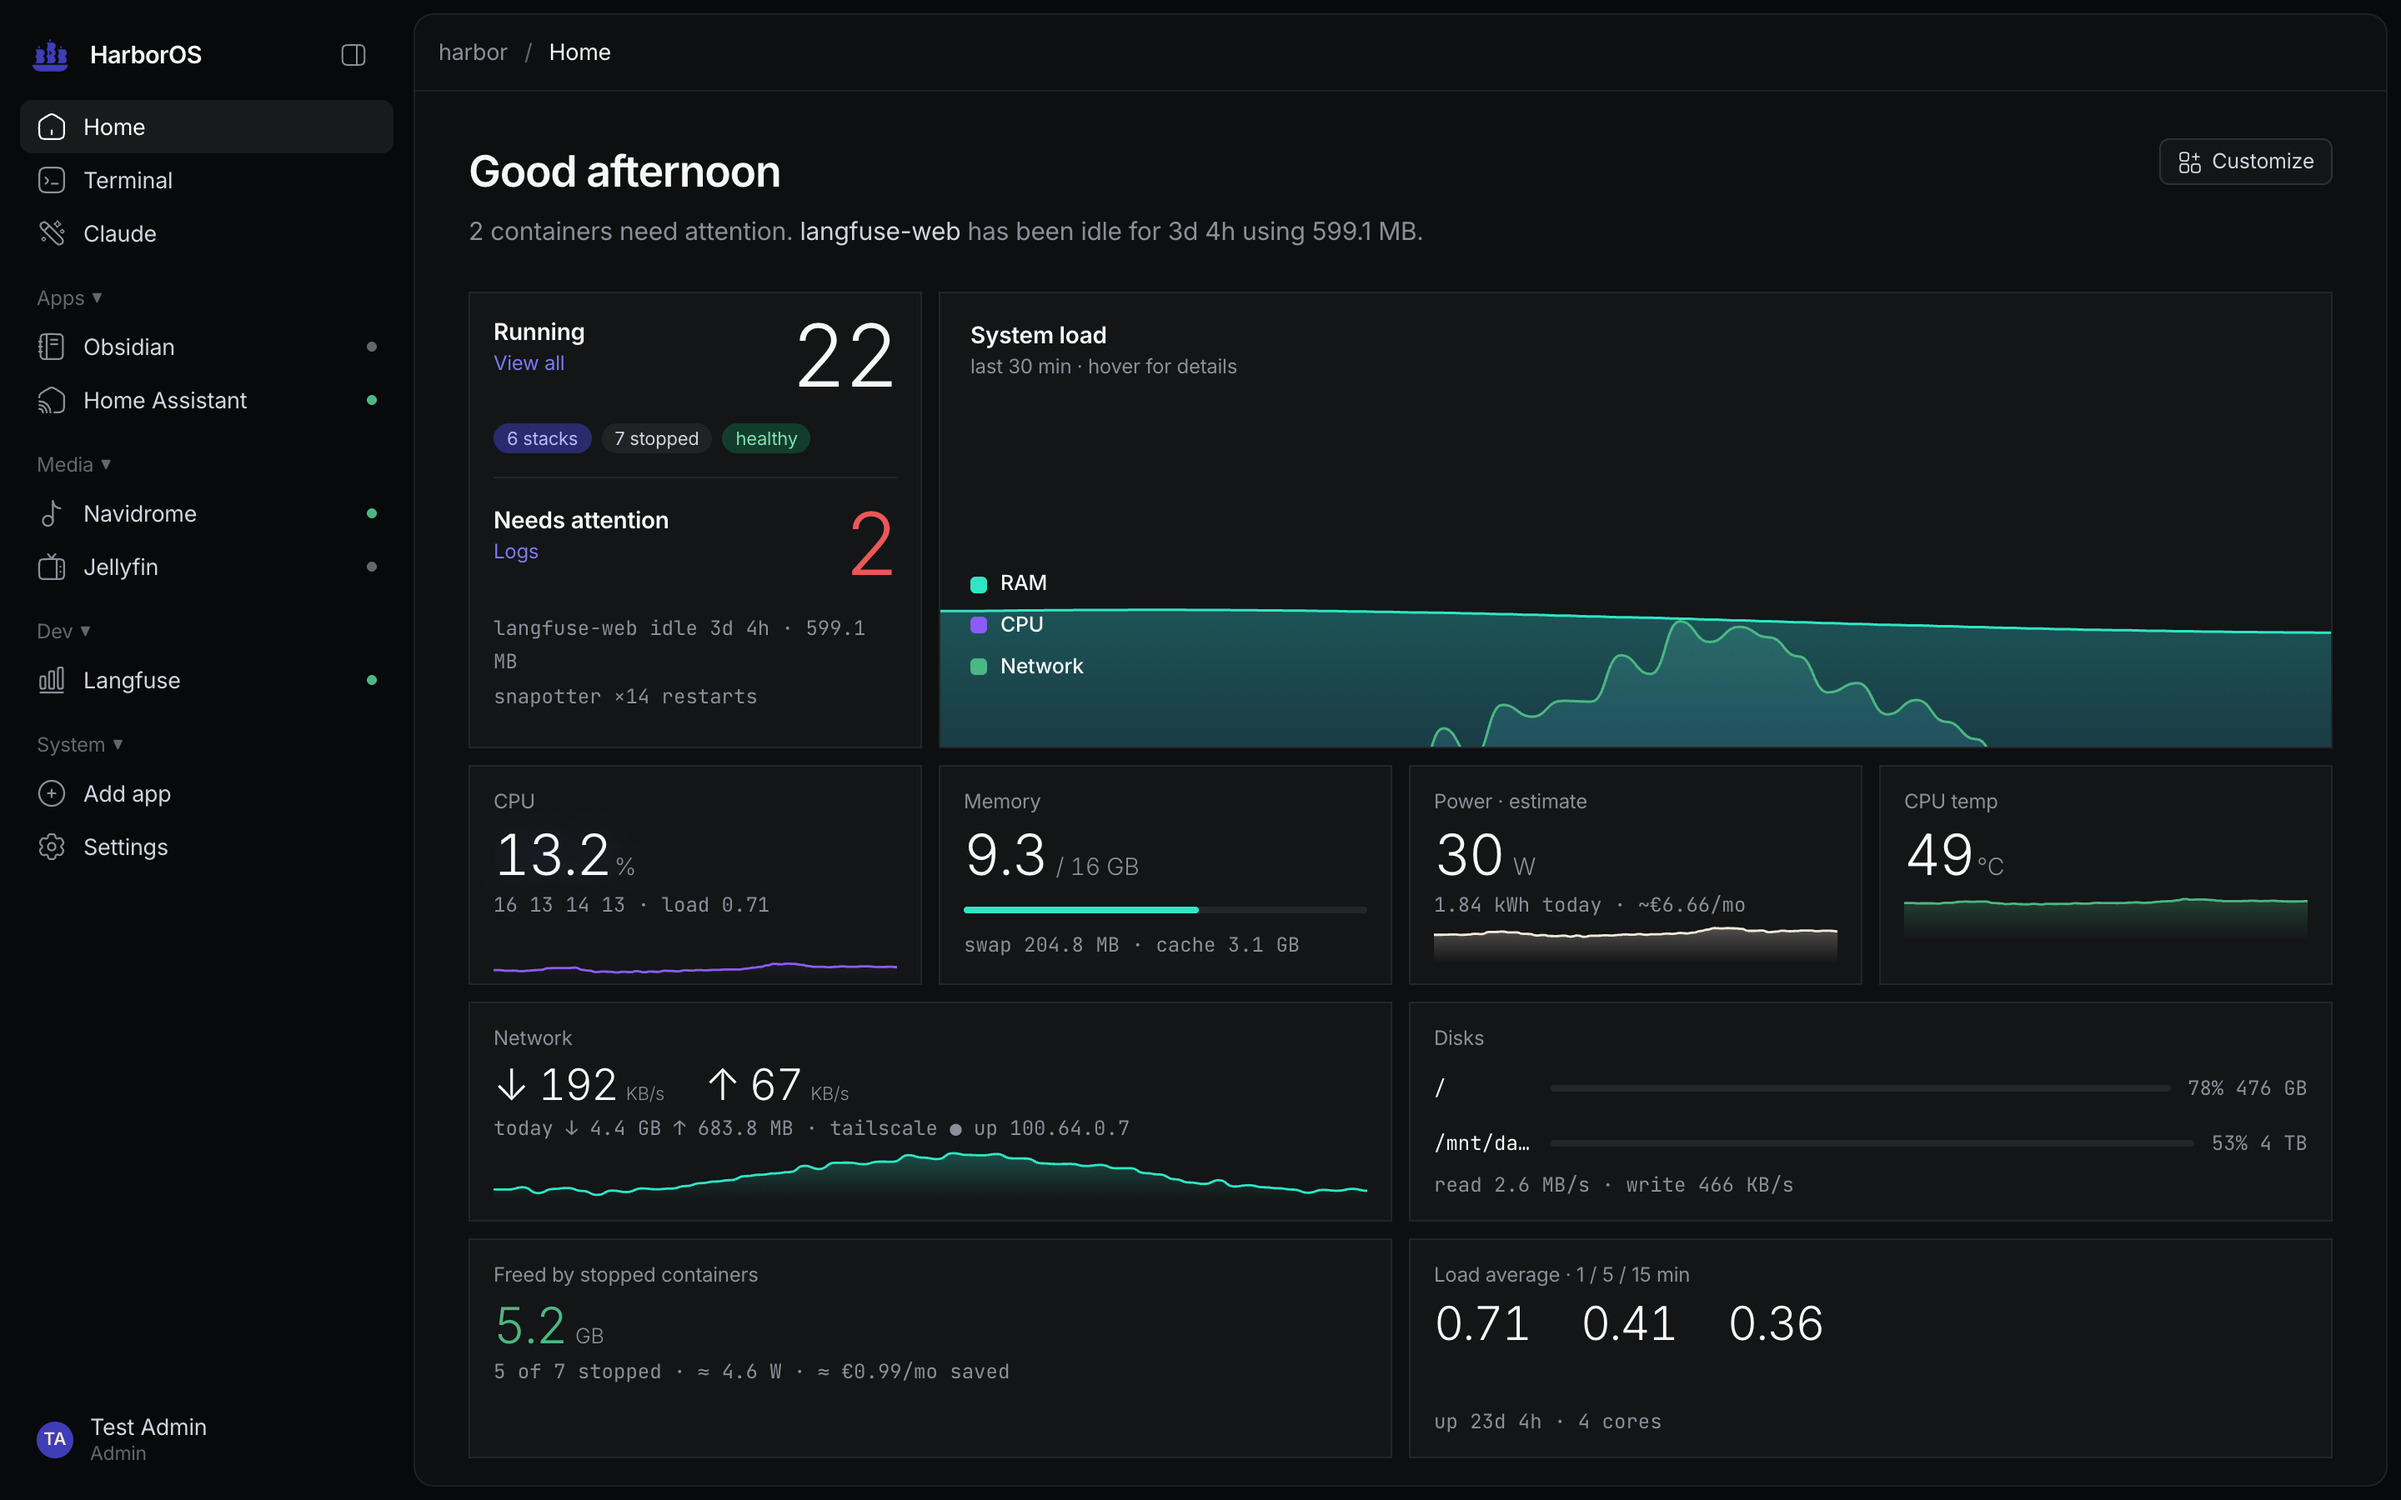
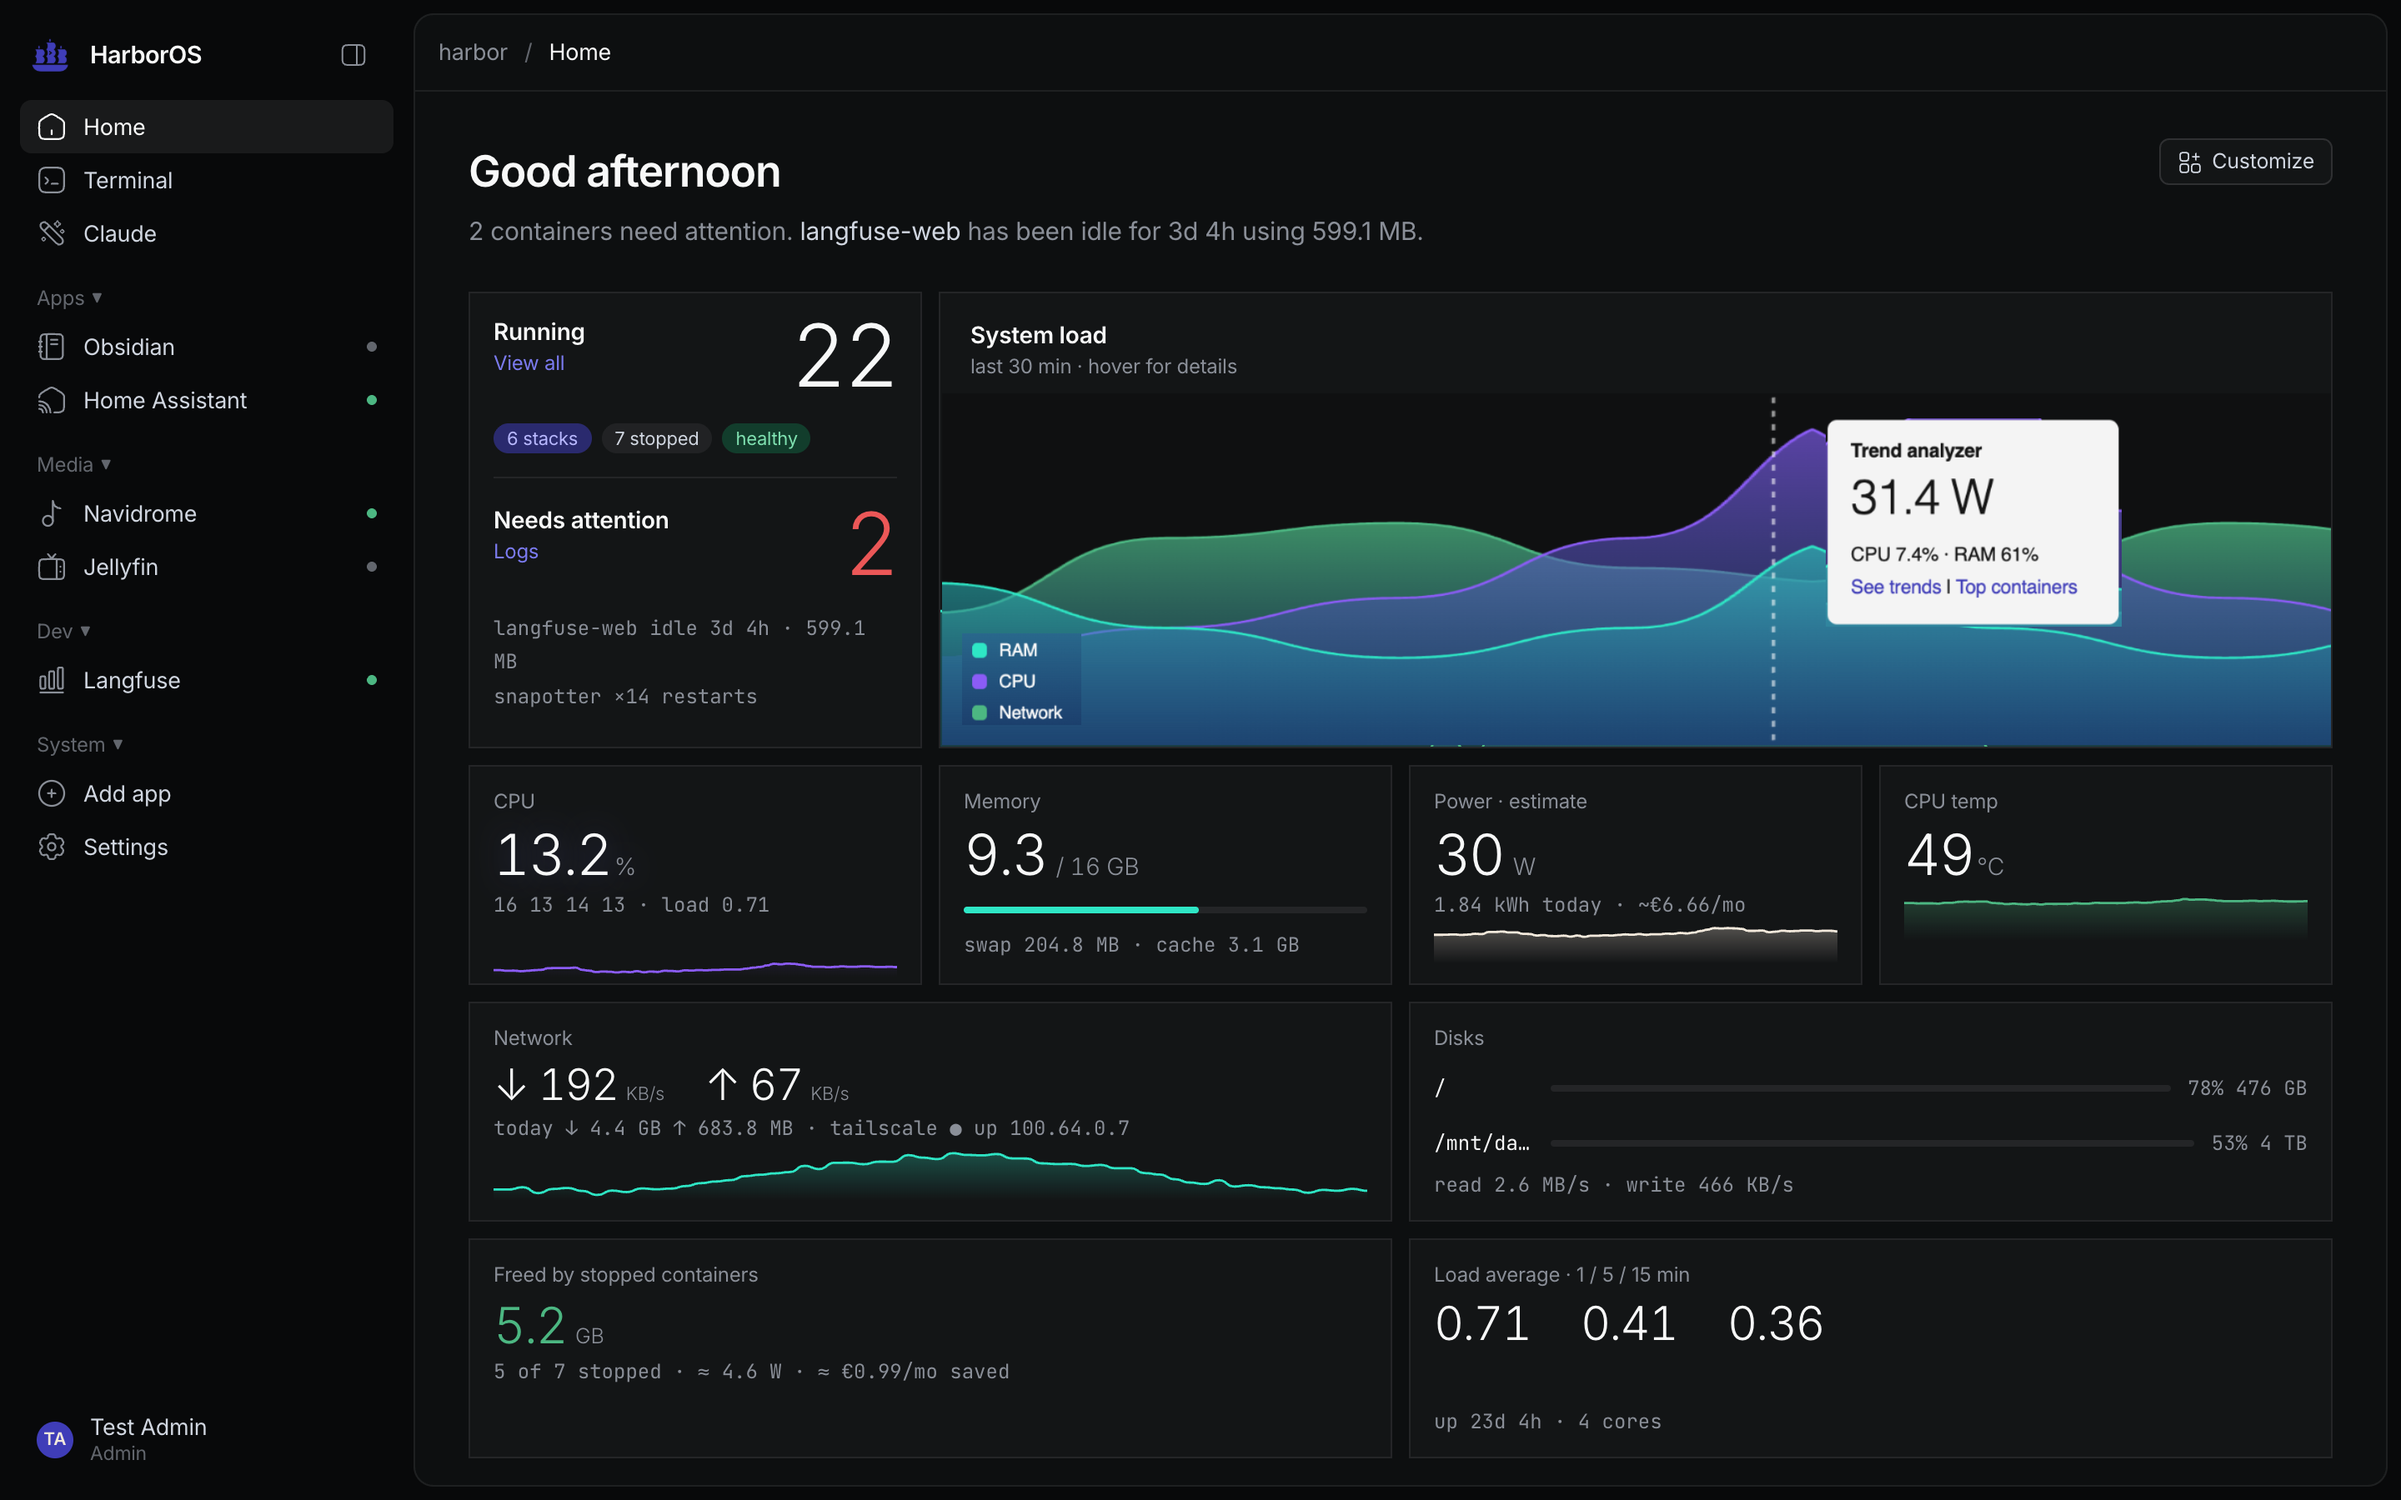
README: hero screenshot shows the System load chart with the trend card

Changed region(s): [[0.375, 0.28, 0.9688, 0.4978]]

diff --git a/README.md b/README.md
@@ -23,10 +23,6 @@
   <img src="docs/screenshots/home.png" alt="HarborOS home dashboard: sidebar with apps and status dots, system load chart, CPU, memory, power, network, disk and savings tiles" width="100%">
 </p>
 
-<p align="center">
-  <img src="docs/screenshots/system-load.png" alt="System load chart with layered RAM, CPU and network areas and the trend analyzer card" width="100%">
-</p>
-
 <p align="center"><sub>Screenshots use the built-in demo mode (<code>HARBOR_DEMO=1</code>), so the numbers are simulated.</sub></p>
 
 ---
